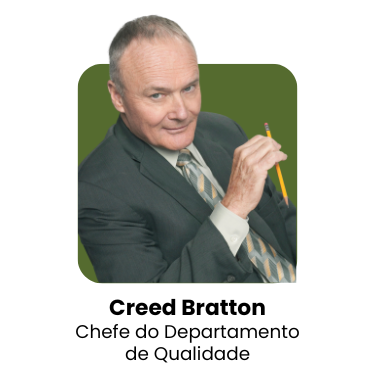
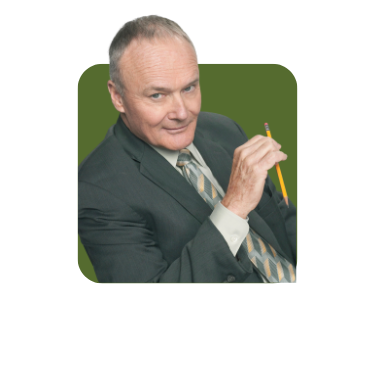
atualizacao de imagem na secao personagens e frase no hero

Changed region(s): [[0.2053, 0.792, 0.8213, 0.968]]

diff --git a/src/styles/_hero.scss b/src/styles/_hero.scss
@@ -70,3 +70,19 @@
         padding: 0 10px;
     }
 }
+.hero__text {
+    position: absolute;
+    top: 80px;
+    left: 20px;
+    color:variaveis.$corDeTextoPrincipal;
+    font-size: 14px;
+    font-weight: bold;
+    background-color: transparent;
+    padding: 10px;
+    border-radius: 5px;
+    max-width: 300px;
+}
+
+.hero__text::before {
+    font-size: 1.5rem;
+}

diff --git a/index.html b/index.html
@@ -28,6 +28,7 @@
         </div>
     </header>
     <section class="hero">
+        <div class="hero__text">"Bears. Beets. Battlestar Galactica." - Dwight Schrute</div>
     </section>
     
     <section class="shows" id="personagens"></section>
